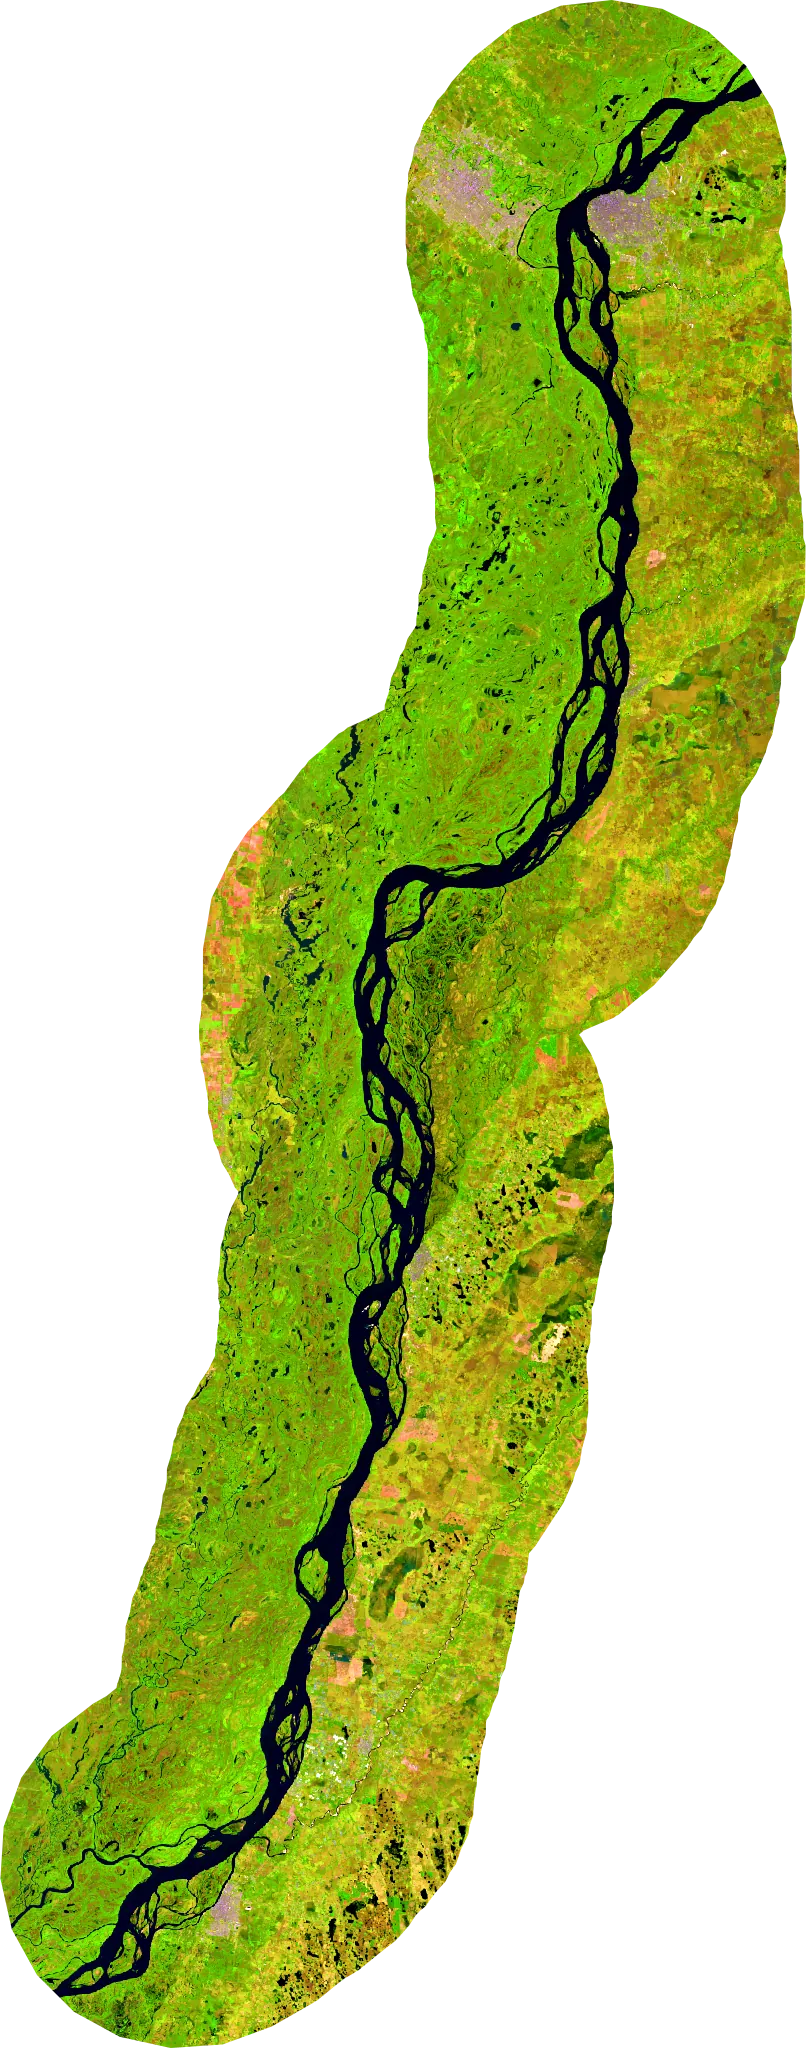
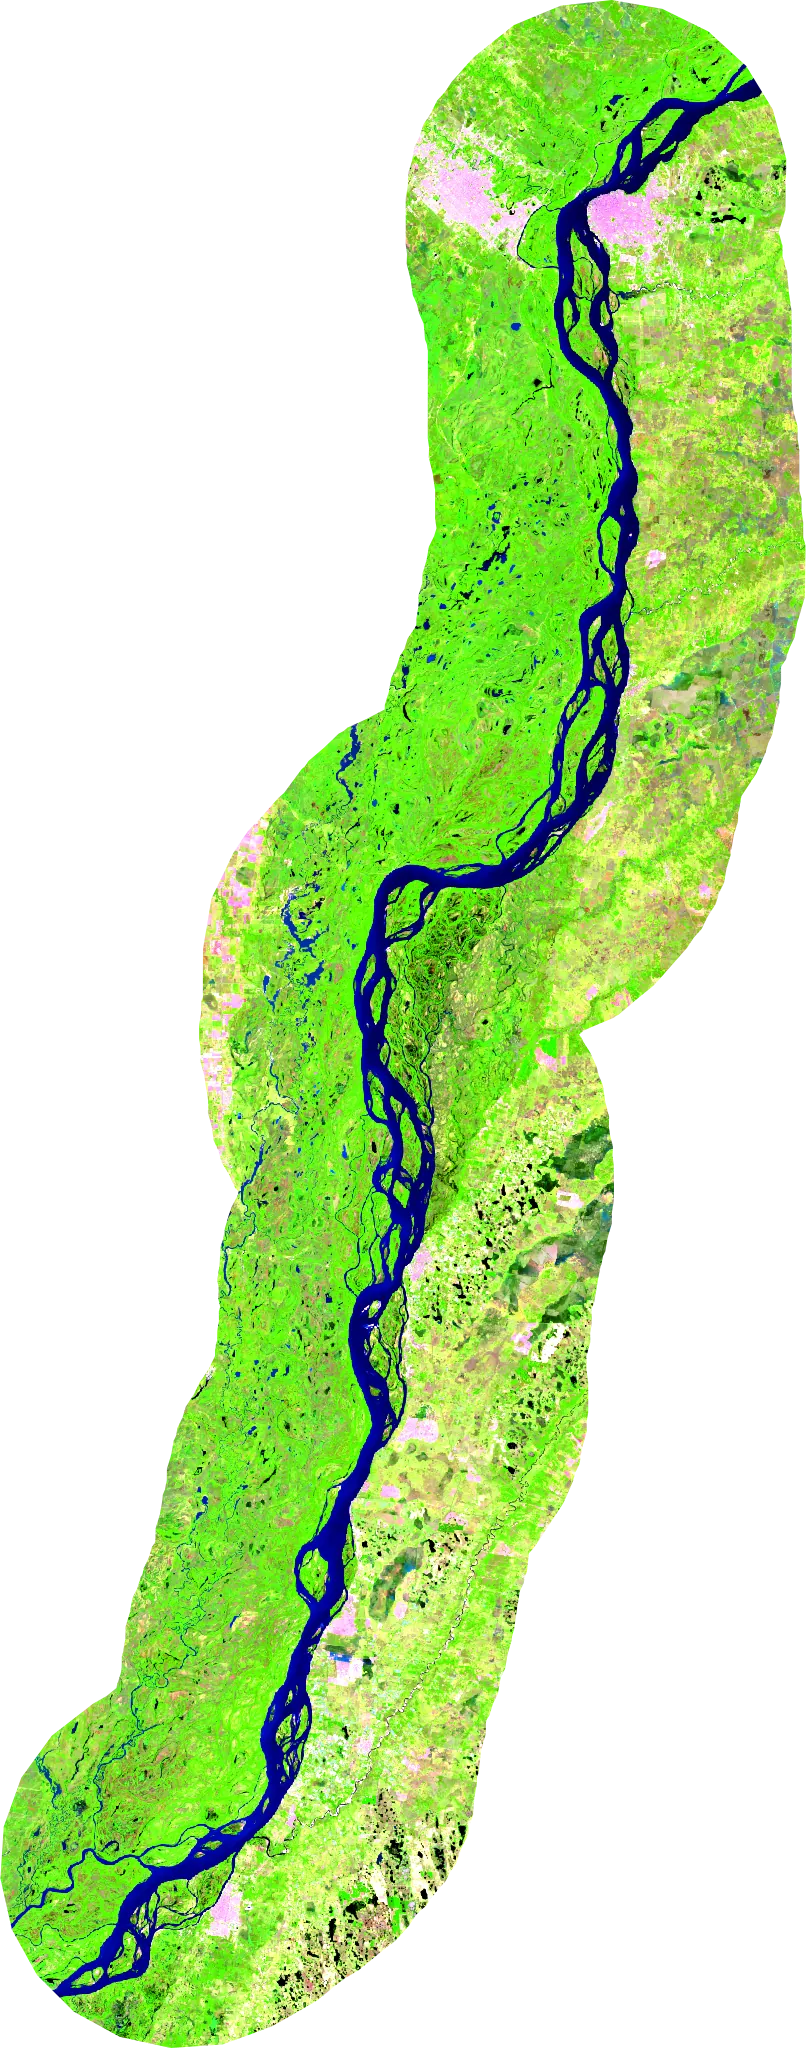
Tune the satellite colours, and let the river choose the blue channel
The first render was khaki where it should have been pink, so the bands
were set from the imagery instead of by eye. Medians measured over the La
Paz to Parana corridor, in surface reflectance:

                B11    B8    B4    B2
  water         109   269   695   420
  vegetation    839  1937   348   268
  bare ground  2063  1968   568   344

Two things fall out of that table.

The blue band cannot be the blue channel. Bare ground reflects *less*
blue than water does, 344 against 420, so no linear stretch makes soil
pink and water navy at the same time - which is exactly how the first
attempt came out khaki.

The visible red band can, and the reason is the river itself. The Parana
carries so much sediment that water is the brightest of the three in red,
695 against 568 for ploughed ground and 348 for vegetation. A clear river
would not behave this way; this one hands back a usable blue channel.

So: SWIR2 in red, near infrared in green, visible red in blue, stretched
from those medians rather than guessed. Water lands near rgb(0, 6, 126),
vegetation near rgb(71, 191, 30), ploughed ground near rgb(192, 131,
108), and bright dry fields clip the red channel on purpose - that is
where the pink comes from.

Also switched SWIR1 for SWIR2, which separates dry ground from vegetation
more sharply, and the page's note now describes the bands it actually
uses.

diff --git a/site/map.html b/site/map.html
@@ -115,7 +115,7 @@ const T = {
     baseGroup: "Fondo del mapa",
     baseStreet: "Calles", baseSatellite: "Satélite",
     satelliteNote: (start, end) =>
-      `Fondo: Sentinel-2 entre ${start} y ${end}, sin nubes y en falso color. El rojo es el infrarrojo de onda corta, el verde el infrarrojo cercano y el azul el azul visible: la vegetación sale verde brillante, el agua azul oscuro, la tierra arada rosa y los pueblos grises. Por eso un campo inundado se distingue de uno seco, cosa que en color natural no pasa.`,
+      `Fondo: Sentinel-2 entre ${start} y ${end}, sin nubes y en falso color. El rojo es el infrarrojo de onda corta, el verde el infrarrojo cercano y el azul el rojo visible: la vegetación sale verde brillante, el agua azul oscuro, la tierra arada rosa y los pueblos grises. El azul va en el rojo visible porque el Paraná lleva tanto sedimento que el agua es lo más brillante de todo en esa banda. Por eso un campo inundado se distingue de uno seco, cosa que en color natural no pasa.`,
     stageNote: "Altura del río en cada estación, comparada con lo normal para esa fecha, interpolada a lo largo del río. Se actualiza todos los días. La línea se corta en Yacyretá —el embalse y el río aguas abajo están separados— y termina en Villa Constitución, la última estación que puede pintarla: más abajo manda la marea.",
     radarNote: "Cada cuadro es un compuesto de 12 días, no un instante. La franja que ve el satélite es más angosta que este tramo de río. Esta capa baja hasta el Delta, más allá de donde llega la línea diaria, pero del Delta y del cañón de arriba de Posadas sólo se muestra la imagen: ahí no se publica superficie.",
     pctLow: "bajo", pctHigh: "muy alto",
@@ -153,7 +153,7 @@ const T = {
     baseGroup: "Map background",
     baseStreet: "Streets", baseSatellite: "Satellite",
     satelliteNote: (start, end) =>
-      `Background: Sentinel-2 between ${start} and ${end}, cloud-masked and in false colour. Red is shortwave infrared, green is near infrared, blue is visible blue: vegetation reads bright green, water deep navy, ploughed ground pink and towns grey. That is why a flooded field looks different from a dry one here, which in natural colour it does not.`,
+      `Background: Sentinel-2 between ${start} and ${end}, cloud-masked and in false colour. Red is shortwave infrared, green is near infrared, blue is the visible red band: vegetation reads bright green, water deep navy, ploughed ground pink and towns grey. The blue channel carries visible red because the Paraná is muddy enough that water is the brightest thing in that band. That is why a flooded field looks different from a dry one here, which in natural colour it does not.`,
     stageNote: "River height at each gauge against what is normal for the date, interpolated along the river. Updates daily. The line breaks at Yacyretá — the reservoir and the river below it are separate — and ends at Villa Constitución, the last gauge that can paint it: below that the tide takes over.",
     radarNote: "Each frame is a 12-day composite, not an instant. The satellite's swath is narrower than this run of river. This layer reaches the Delta, further than the daily line goes, but for the Delta and the gorge above Posadas only the picture is shown: no area is published there.",
     pctLow: "low", pctHigh: "very high",

diff --git a/src/parana_crecida/basemap.py b/src/parana_crecida/basemap.py
@@ -11,11 +11,11 @@ near infrared, blue takes the visible blue:
 
 - vegetation reflects strongly in the near infrared and weakly in SWIR,
   so it lands bright green
-- water absorbs both infrared bands and keeps a little blue, so it reads
-  deep navy rather than black, which is what separates a channel from a
-  shadow
-- bare and ploughed ground reflects most strongly in SWIR, so it comes out
-  pink
+- water absorbs both infrared bands and, on a river this muddy, keeps a
+  good deal of visible red, so it reads deep navy rather than black -
+  which is what separates a channel from a shadow
+- ploughed ground reflects strongly in SWIR and moderately in red, so it
+  comes out pink
 - towns reflect moderately across all three and stay grey
 
 That is why a flooded field is distinguishable from a dry one here and not
@@ -66,13 +66,26 @@ FRAME_PX = 2048
 #: costs about an eighth of that.
 WEBP_QUALITY = 80
 
-#: Red: SWIR1. Green: near infrared. Blue: visible blue.
-BANDS = ("B11", "B8", "B2")
+#: Red: SWIR2. Green: near infrared. Blue: the visible red band.
+#:
+#: The blue channel is the surprise, and it is the Parana's doing. The
+#: obvious choice is the blue band, and it cannot work here: measured over
+#: this corridor, bare ground reflects *less* blue than water does (344
+#: against 420), so no linear stretch can make soil pink and water navy at
+#: the same time. The visible red band can, because the Parana carries so
+#: much sediment that water is the brightest of the three in it - 695,
+#: against 568 for ploughed ground and 348 for vegetation. A clear river
+#: would not behave this way.
+BANDS = ("B12", "B8", "B4")
+
 #: Reflectance is scaled by 10,000 in the surface-reflectance product.
-#: These stretch the three bands so water stays dark without crushing the
-#: bare ground to white.
-VIS_MIN = (150, 200, 250)
-VIS_MAX = (3600, 3800, 1800)
+#: Set from the medians actually measured over the corridor rather than by
+#: eye - water 110/269/695, vegetation 604/2224/356, bare 1456/1583/631 -
+#: so that water lands near rgb(0, 6, 126), vegetation near rgb(71, 191,
+#: 30) and ploughed ground near rgb(192, 131, 108). Bright dry fields clip
+#: the red channel on purpose: that is where the pink comes from.
+VIS_MIN = (100, 200, 250)
+VIS_MAX = (1900, 2900, 1150)
 
 
 @dataclass(frozen=True, slots=True)
